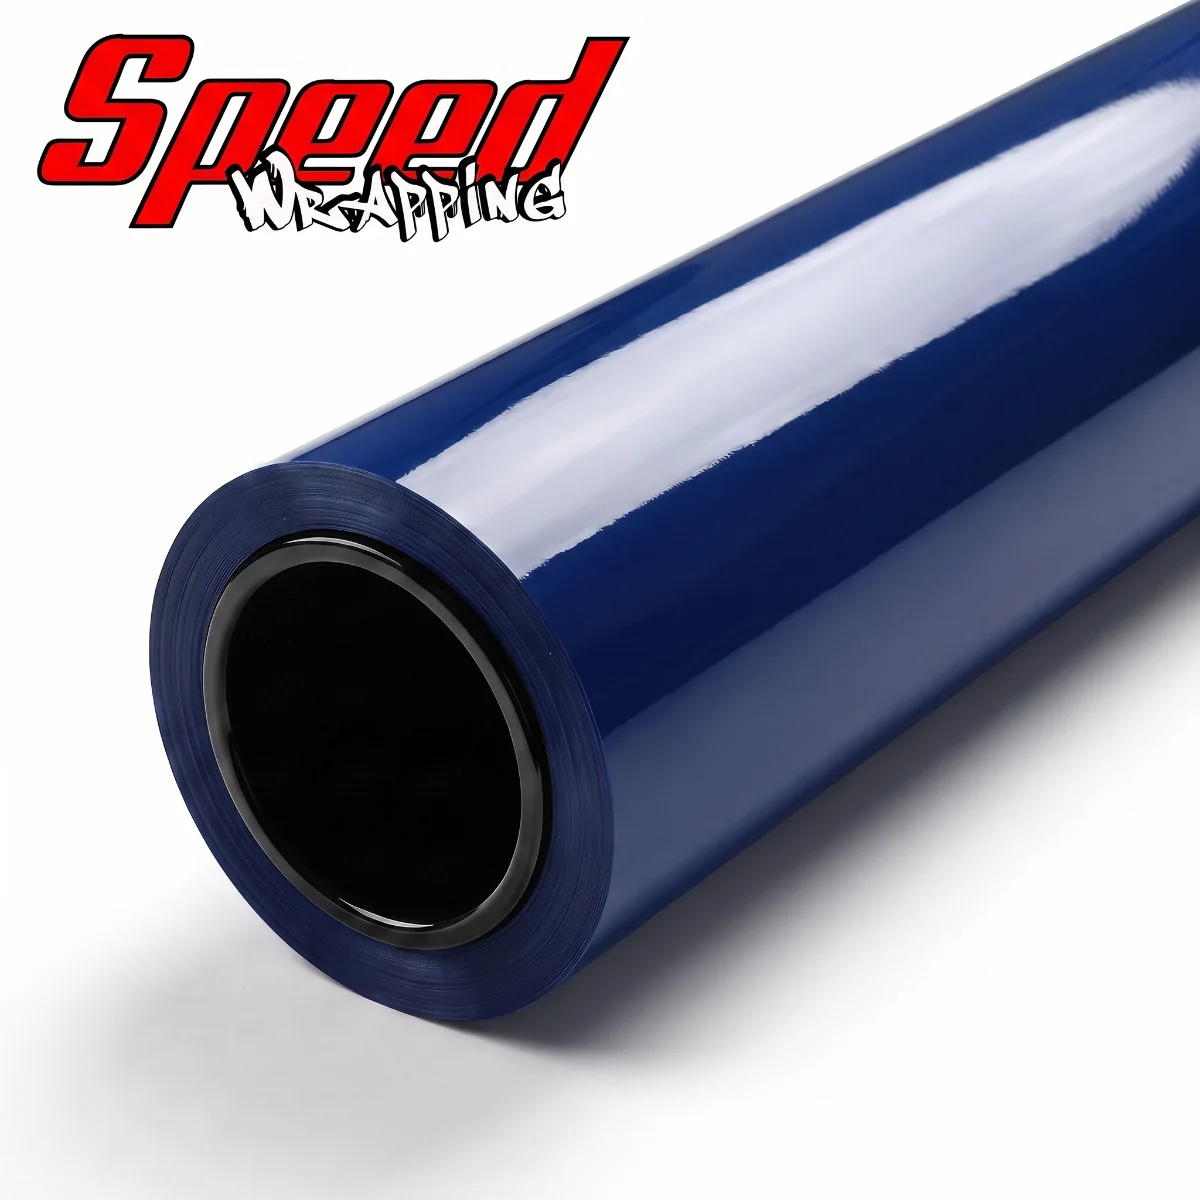
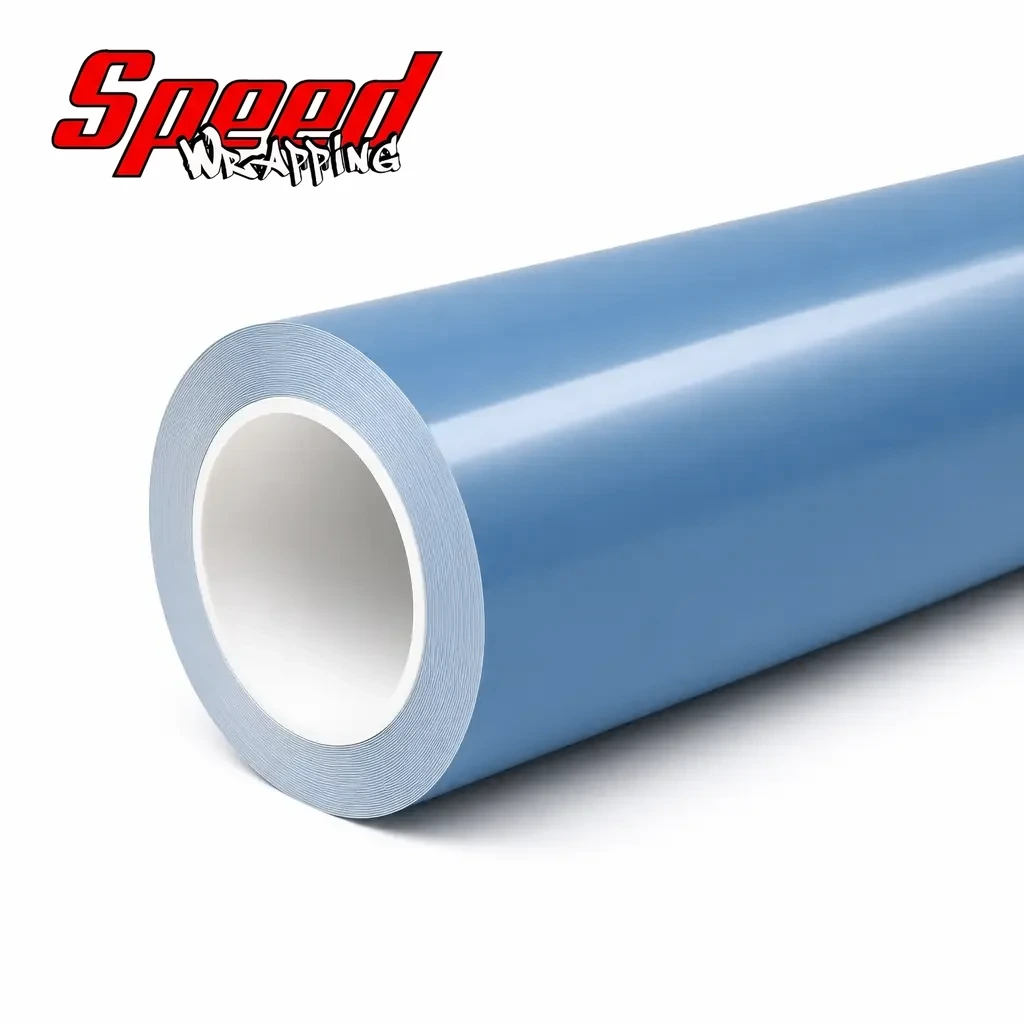
feat(esg-034): Lexus LC 500 + capa na leitura (#5D85AD) Ceramic China Blue

diff --git a/docs/FOTOS_DE_COR_AUTOMOTIVA.md b/docs/FOTOS_DE_COR_AUTOMOTIVA.md
@@ -88,6 +88,7 @@ confiável:
 |---|---|---|---|
 | ESG-031 Plum Magenta | H331 S52 V72 | 1,4 | confiável |
 | ESG-032 Morganite | H348 S63 V78 | 1,8 | confiável |
+| ESG-034 Ceramic China Blue | H210 S46 V68 | 2,4 | confiável |
 | **ESG-030 Gem Red** | H333 S68 V76 | **7,7** | **não confiável** |
 
 A ESG-030 foi fotografada com o cartão bem dobrado e o reflexo da janela cruzando
@@ -395,6 +396,27 @@ sombra.
 **Escolha da base:** entre duas gerações, prefira a que acertou a SATURAÇÃO,
 mesmo com o matiz 10 ou 12 graus fora. Nunca o contrário.
 
+### "Pale" e "muted" não são sinônimos — mexem em eixos diferentes
+
+A mesma armadilha da lista de negações, por outro caminho: adjetivos de baixa
+cromaticidade não são intercambiáveis, e escolher o errado joga o VALOR junto.
+
+| Palavra | Saturação | Valor |
+|---|---|---|
+| **muted**, **dusty**, **mellow**, **restrained** | desce | **desce também** |
+| **pale**, **powdery**, **airy**, **porcelain** | desce | **sobe** |
+
+Numa cor clara e pouco saturada — a ESG-034 Ceramic China Blue lê S 46 · V 68 —
+pedir "muted blue" entrega a saturação certa e o valor 12 pontos no chão, e aí o
+que falta é brilho, que é caro de levantar. **"Pale porcelain blue" entrega os
+dois no lugar.** Para cor escura e pouco saturada vale o inverso: "muted" é a
+palavra, "pale" clareia o que não devia.
+
+Regra prática: olhe o V da leitura antes de escolher o adjetivo. **V acima de
+~60 pede a família do "pale"; V abaixo disso pede a do "muted".** E continue
+escrevendo matiz, croma e brilho como três instruções numeradas e independentes
+— o adjetivo é reforço, não é a instrução.
+
 > **Como pedir gloss sólido:** "tinta automotiva sólida recém-aplicada", "campo de
 > cor cremoso e perfeitamente uniforme", "o brilho aparece como formas GRANDES e de
 > borda MACIA, gradientes amplos, mais um filete especular limpo na linha do ombro
@@ -487,6 +509,9 @@ marca d'água, sem adesivo de patrocínio.
 | MCX-73 Capri Bronze | VW Golf R Mk8 | pátio de serviço industrial |
 | ESG-030 Gem Red | Toyota GR Supra A90 | pátio de concreto com prédio de vidro |
 | ESG-031 Plum Magenta | Honda Civic Type R FL5 | cais de porto de carga, guindastes pórtico |
+| ESG-032 Morganite Gem Red | Nissan GT-R R35 | pátio de concreto, muro board-marked |
+| ESG-033 Python Green | Porsche 718 Cayman GT4 | mirante de rocha escura, carro à esquerda |
+| ESG-034 Ceramic China Blue | Lexus LC 500 | esplanada brutalista de concreto, céu branco |
 
 Quando o fabricante já escolheu um carro na brochure, é uma boa escolha — foi o
 caso do Golf na Capri Bronze e do M4 na Bavarian Blue. E quando a cor reproduz

diff --git a/docs/CAPAS_SPEED_WRAPPING.md b/docs/CAPAS_SPEED_WRAPPING.md
@@ -240,3 +240,4 @@ conferir sempre pelo arquivo no ar antes de mexer em qualquer coisa.
 | Cor | Leitura | Acabamento | Capa final |
 |---|---|---|---|
 | ESG-030 Super Gloss Gem Red | `#98144E` · H 334 · S 87 · V 60 | super gloss sólido | `#981451` |
+| ESG-034 Ceramic China Blue | `#5D85AD` · H 210 · S 46 · V 68 | super gloss sólido | geração já em H 210,4 · S 46,9 |
